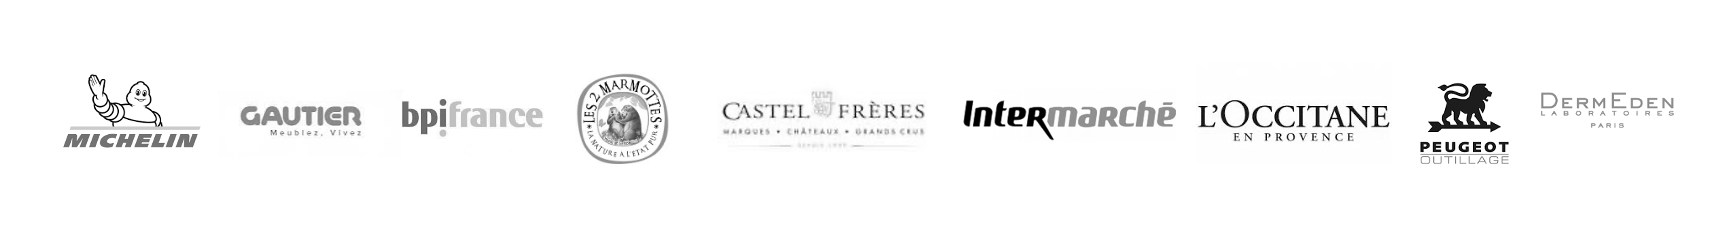
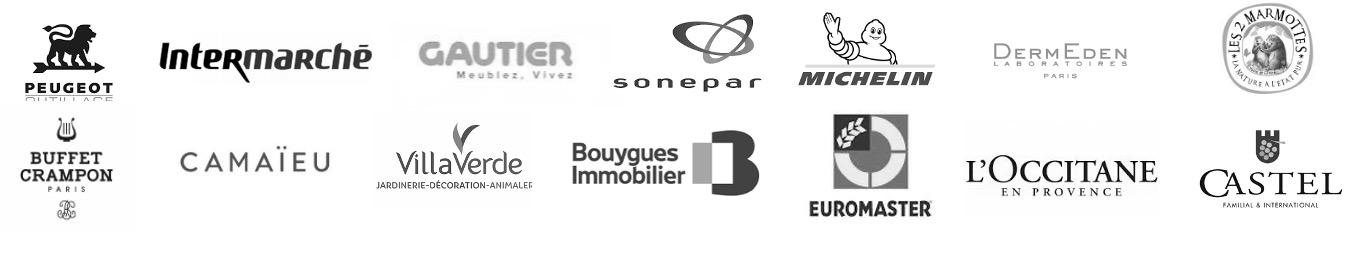
ok

diff --git a/style.css b/style.css
@@ -209,8 +209,9 @@ background-image: linear-gradient(rgba(0,0,0,0.4), rgba(0,0,0,0.4)), url(assets/
 }
 
 .refs {
-  width: 100%;
-  margin: 0px auto;
+
+  width: 70%;
+  margin: 40px auto;
 }
 
 .avatar {
